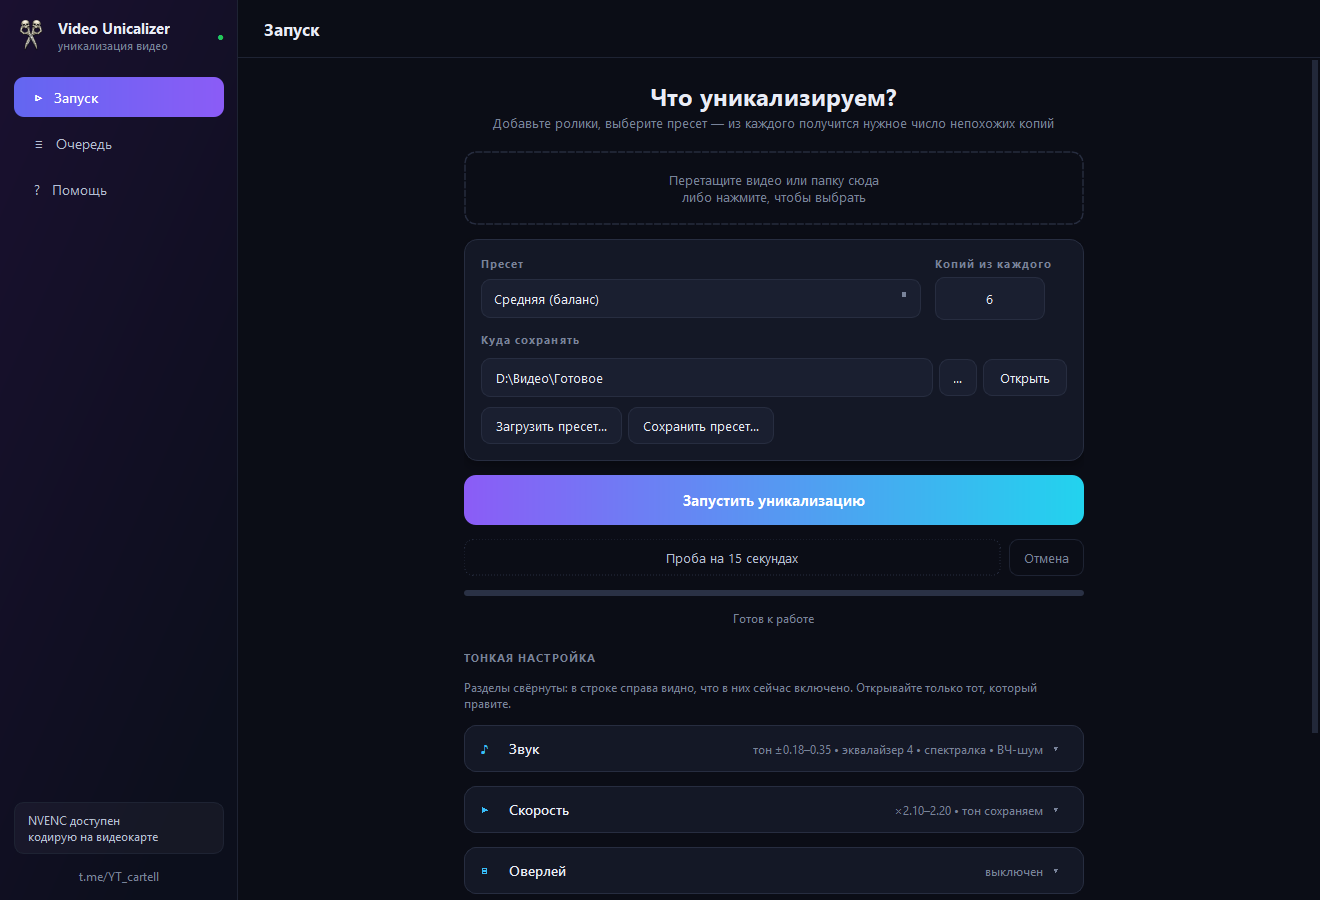
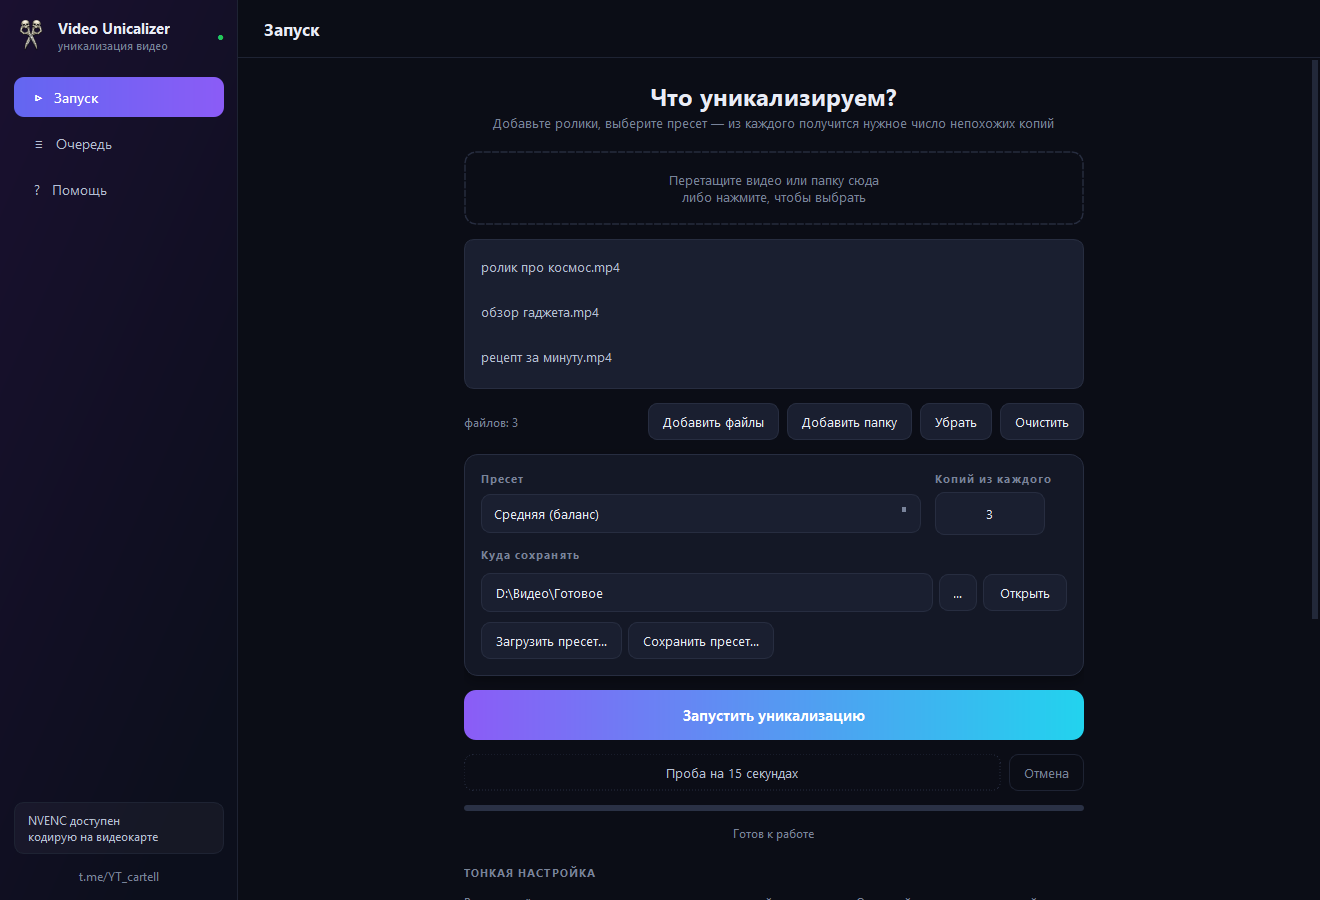
Свежие скриншоты приложения, включая очередь в работе
Кадры сняты с текущей сборки. Добавлен экран очереди: видно прогресс
каждой задачи, четыре параллельных потока и оценку оставшегося времени.

diff --git a/README.md b/README.md
@@ -81,6 +81,12 @@ python -m unicalizer.cli -i video.mp4 -o out --seed 123456789
 
 ![Настройки](docs/screenshot-settings.png)
 
+Пока идёт обработка, на странице «Очередь» видно каждую задачу с её прогрессом,
+а сверху — сколько осталось. Двойной клик по готовой строке открывает файл,
+по упавшей — показывает, что именно сказал ffmpeg, и предлагает повторить.
+
+![Очередь](docs/screenshot-queue.png)
+
 ---
 
 ## Консольный режим
